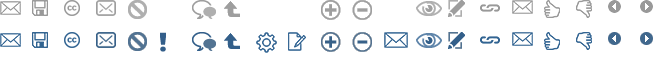
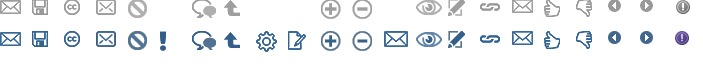
Frontend for clicking on report buttons. Next steps: look at what happens in the frontend after clicking report- i.e. why does the comment vanish, then reappear on reloads? Look at the backend- can I easily display the reports to the admins? Or should I send an email instead?

diff --git a/r2/r2/public/static/main.css b/r2/r2/public/static/main.css
@@ -1221,7 +1221,8 @@ width: 20px;
  */
 /* Allow the 'yes/no' popup text to appear */
 div.comment-links ul li.delete a.yes, div.comment-links ul li.delete a.no,
-div.comment-links ul li.retract a.yes, div.comment-links ul li.retract a.no  {
+div.comment-links ul li.retract a.yes, div.comment-links ul li.retract a.no,
+div.comment-links ul li.report a.yes, div.comment-links ul li.report a.no {
   background-image: none;
   width: auto;
   display: inline;
@@ -2117,6 +2118,18 @@ div.comment-links ul li.subscribe a.mod
 {
   background-position: 0 -32px;
 }
+
+div.comment-links ul li.report a {
+  width: 21px;
+  height: 16px;
+  background-position: -672px 0;
+}
+div.comment-links ul li.report a:hover,
+div.comment-links ul li.report a.mod
+{
+  background-position: -672px -32px;
+}
+
 
 div.comment-links ul li.retract a {
   width: 21px;

diff --git a/r2/r2/templates/comment.html b/r2/r2/templates/comment.html
@@ -162,7 +162,7 @@ ${parent.midcol()}
           %endif
         %endif
         <% allow_delete = thing.can_delete() %>
-        ${parent.delete_or_report_buttons(allow_delete,False,True)}
+        ${parent.delete_or_report_buttons(allow_delete,True,True)}
         ${parent.buttons()}
         %if c.user_is_loggedin and not thing.author == c.user:
           <li class='subscribe'>
